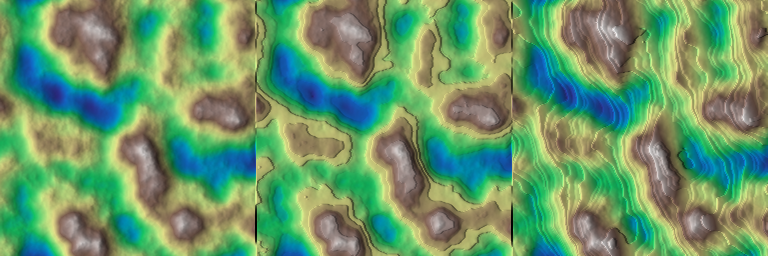
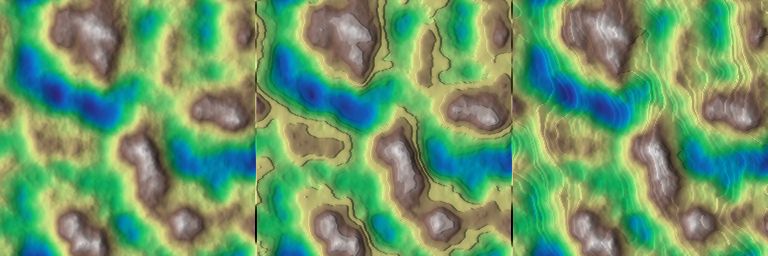
Add noise input to stratification (#55)

diff --git a/src/erosion/stratify.cpp b/src/erosion/stratify.cpp
@@ -3,6 +3,7 @@
  * this software. */
 #define _USE_MATH_DEFINES
 #include <cmath>
+#include <functional>
 
 #include "macrologger.h"
 
@@ -16,31 +17,56 @@ namespace hmap
 // Main operator
 //----------------------------------------------------------------------
 
-void stratify(Array &z, std::vector<float> hs, std::vector<float> gamma)
-{
-  for (uint k = 0; k < hs.size() - 1; k++)
-    for (auto &v : z.vector)
-      if ((v >= hs[k]) and (v < hs[k + 1]))
-      {
-        // scale to [0, 1], apply gamma correction and scale back
-        float dh = hs[k + 1] - hs[k];
-        v = (v - hs[k]) / dh;
-        v = std::pow(v, gamma[k]);
-        v = hs[k] + v * dh;
-      }
-}
-
 void stratify(Array             &z,
               std::vector<float> hs,
               std::vector<float> gamma,
-              Array             *p_mask)
+              Array             *p_noise)
+{
+
+  if (p_noise)
+    for (uint k = 0; k < hs.size() - 1; k++)
+    {
+      float dh = hs[k + 1] - hs[k];
+      for (int i = 0; i < z.shape.x; i++)
+        for (int j = 0; j < z.shape.y; j++)
+        {
+          float zt = z(i, j) - (*p_noise)(i, j);
+          if ((zt >= hs[k]) and (zt < hs[k + 1]))
+          {
+            // scale to [0, 1], apply gamma correction and scale back
+            float v = (zt - hs[k]) / dh;
+            v = std::pow(v, gamma[k]);
+            z(i, j) = hs[k] + v * dh + (*p_noise)(i, j);
+          }
+        }
+    }
+  else
+    for (uint k = 0; k < hs.size() - 1; k++)
+    {
+      float dh = hs[k + 1] - hs[k];
+      for (int i = 0; i < z.shape.x; i++)
+        for (int j = 0; j < z.shape.y; j++)
+          if ((z(i, j) >= hs[k]) and (z(i, j) < hs[k + 1]))
+          {
+            float v = (z(i, j) - hs[k]) / dh;
+            v = std::pow(v, gamma[k]);
+            z(i, j) = hs[k] + v * dh;
+          }
+    }
+}
+
+void stratify(Array             &z,
+              Array             *p_mask,
+              std::vector<float> hs,
+              std::vector<float> gamma,
+              Array             *p_noise)
 {
   if (!p_mask)
-    stratify(z, hs, gamma);
+    stratify(z, hs, gamma, p_noise);
   else
   {
     Array z_f = z;
-    stratify(z_f, hs, gamma);
+    stratify(z_f, hs, gamma, p_noise);
     z = lerp(z, z_f, *(p_mask));
   }
 }
@@ -49,7 +75,8 @@ void stratify_oblique(Array             &z,
                       std::vector<float> hs,
                       std::vector<float> gamma,
                       float              talus,
-                      float              angle)
+                      float              angle,
+                      Array             *p_noise)
 {
   // elevation shift due to the oblicity
   Array shift = Array(z.shape);
@@ -91,23 +118,24 @@ void stratify_oblique(Array             &z,
       }
   }
 
-  stratify(zs, hs_o, gamma_o);
+  stratify(zs, hs_o, gamma_o, p_noise);
   z = zs - shift;
 }
 
 void stratify_oblique(Array             &z,
+                      Array             *p_mask,
                       std::vector<float> hs,
                       std::vector<float> gamma,
                       float              talus,
                       float              angle,
-                      Array             *p_mask)
+                      Array             *p_noise)
 {
   if (!p_mask)
-    stratify_oblique(z, hs, gamma, talus, angle);
+    stratify_oblique(z, hs, gamma, talus, angle, p_noise);
   else
   {
     Array z_f = z;
-    stratify_oblique(z_f, hs, gamma, talus, angle);
+    stratify_oblique(z_f, hs, gamma, talus, angle, p_noise);
     z = lerp(z, z_f, *(p_mask));
   }
 }
@@ -116,14 +144,14 @@ void stratify_oblique(Array             &z,
 // Overloading
 //----------------------------------------------------------------------
 
-void stratify(Array &z, std::vector<float> hs, float gamma)
+void stratify(Array &z, std::vector<float> hs, float gamma, Array *p_noise)
 {
   // float to vector
   std::vector<float> gs(hs.size() - 1);
   for (auto &v : gs)
     v = gamma;
 
-  stratify(z, hs, gs);
+  stratify(z, hs, gs, p_noise);
 }
 
 } // namespace hmap

diff --git a/include/highmap/erosion.hpp b/include/highmap/erosion.hpp
@@ -401,9 +401,10 @@ void sediment_deposition(Array &z,
  * corrected by a gamma factor.
  *
  * @param z Input array.
+ * @param p_mask Intensity mask, expected in [0, 1] (applied as a
  * @param hs Layer elevations. For 'n' layers, 'n + 1' values must be provided.
  * @param gamma Layer gamma correction factors, 'n' values.
- * @param p_mask Intensity mask, expected in [0, 1] (applied as a
+ *
  * post-processing).
  *
  * @see gamma_correction.
@@ -415,29 +416,32 @@ void sediment_deposition(Array &z,
  * @image html ex_stratify.png
  */
 void stratify(Array             &z,
+              Array             *p_mask,
               std::vector<float> hs,
               std::vector<float> gamma,
-              Array             *p_mask);
+              Array             *p_noise = nullptr);
 
 void stratify(Array             &z,
               std::vector<float> hs,
-              std::vector<float> gamma); ///< @overload
+              std::vector<float> gamma,
+              Array             *p_noise = nullptr); ///< @overload
 
 void stratify(Array             &z,
               std::vector<float> hs,
-              float              gamma = 0.5f); ///< @overload
+              float              gamma = 0.5f,
+              Array             *p_noise = nullptr); ///< @overload
 
 /**
  * @brief Stratify the heightmap by creating a series of oblique layers with
  * elevations corrected by a gamma factor.
  *
  * @param z Input array.
+ * @param p_mask Intensity mask, expected in [0, 1] (applied as a
+ * post-processing).
  * @param hs Layer elevations. For 'n' layers, 'n + 1' values must be provided.
  * @param gamma Layer gamma correction factors, 'n' values.
  * @param talus Layer talus value (slope).
  * @param angle Slope orientation (in degrees).
- * @param p_mask Intensity mask, expected in [0, 1] (applied as a
- * post-processing).
  *
  * **Example**
  * @include ex_stratify.cpp
@@ -446,17 +450,19 @@ void stratify(Array             &z,
  * @image html ex_stratify.png
  */
 void stratify_oblique(Array             &z,
+                      Array             *p_mask,
                       std::vector<float> hs,
                       std::vector<float> gamma,
                       float              talus,
                       float              angle,
-                      Array             *p_mask);
+                      Array             *p_noise = nullptr);
 
 void stratify_oblique(Array             &z,
                       std::vector<float> hs,
                       std::vector<float> gamma,
                       float              talus,
-                      float              angle); ///< @overload
+                      float              angle,
+                      Array             *p_noise = nullptr); ///< @overload
 
 /**
  * @brief Apply thermal weathering erosion.

diff --git a/examples/ex_stratify/ex_stratify.cpp b/examples/ex_stratify/ex_stratify.cpp
@@ -8,6 +8,9 @@ int main(void)
 
   hmap::Array z = hmap::fbm_perlin(shape, res, seed);
 
+  hmap::Array mask = hmap::perlin(shape, res, 0);
+  hmap::remap(mask);
+
   // stratification features (nb of layers, elevations and gamma
   // correction factors)
   auto z1 = z;
@@ -22,7 +25,7 @@ int main(void)
   float talus = 4.f / shape.x;
   float angle = 15.f;
 
-  hmap::stratify_oblique(z2, hs, gs, talus, angle);
+  hmap::stratify_oblique(z2, &mask, hs, gs, talus, angle);
 
   z2.to_file("out.bin");
 
